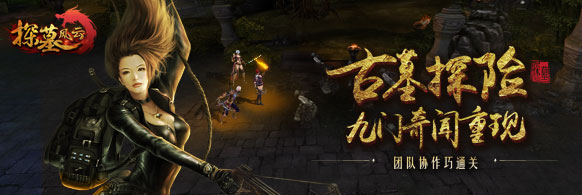
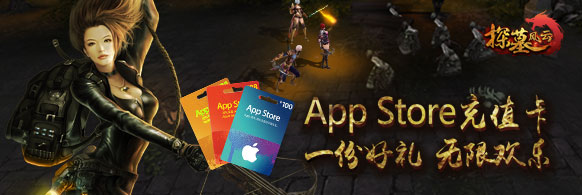
加链接

diff --git a/index.html b/index.html
@@ -42,7 +42,7 @@
             <div class="slide">
                 <ul class="img">
                     <li>
-                        <img src="img/2.jpg" alt="">
+                        <a href="https://market.m.taobao.com/markets/quan/appstore"><img src="img/2.jpg" alt=""></a>
                     </li>
                     <li>
                         <img src="img/3.jpg" alt="">
@@ -51,7 +51,7 @@
                         <img src="img/4.jpg" alt="">
                     </li>
                     <li>
-                        <img class="cur" src="img/5.jpg" alt="">
+                        <img src="img/5.jpg" alt="">
                     </li>
                     <li>
                         <img class="cur" src="img/1.jpg" alt="">

diff --git a/css/homepage.css b/css/homepage.css
@@ -38,6 +38,11 @@ div.wrap_outer {
     top: 0;
     left: 0;
 }
+.slide ul.img a {
+   display: inline-block;
+   width: 582px;
+   height: 195px;
+}
 .slide ul.img li img {
     margin-top: 53px;
     margin-left: 10px;
